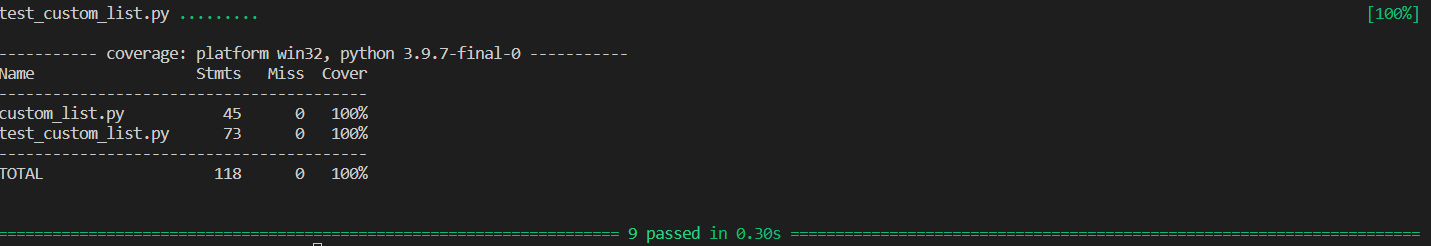
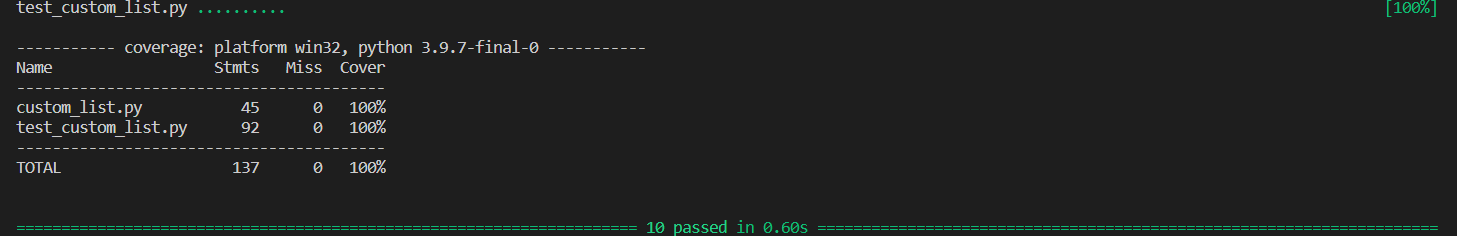
Дз3 попытка 2

diff --git a/03/test_custom_list.py b/03/test_custom_list.py
@@ -1,65 +1,81 @@
-import pytest
 from custom_list import CustomList
+
+
+def assert_custom_list_equal(custom_list1, custom_list2):
+    assert custom_list1 == custom_list2
+    assert list(custom_list1) == list(custom_list2)
 
 
 def test_custom_list_add():
     custom_list1 = CustomList([5, 1, 3, 7])
     custom_list2 = CustomList([1, 2, 7])
     result1 = custom_list1 + custom_list2
-    assert result1 == CustomList([6, 3, 10, 7])
+    assert_custom_list_equal(result1, CustomList([6, 3, 10, 7]))
+    # Проверяем, что исходный список не изменился
+    assert_custom_list_equal(custom_list1, CustomList([5, 1, 3, 7]))
+    assert_custom_list_equal(custom_list2, CustomList([1, 2, 7]))
     result2 = custom_list1 + [2, 5]
-    assert result2 == CustomList([7, 6, 3, 7])
+    assert_custom_list_equal(result2, CustomList([7, 6, 3, 7]))
     result3 = custom_list2 + [1, 2, 3, 4]
-    assert result3 == CustomList([2, 4, 10, 4])
+    assert_custom_list_equal(result3, CustomList([2, 4, 10, 4]))
 
 
 def test_custom_list_add_empty():
     custom_list1 = CustomList([])
     result1 = custom_list1 + [1]
-    assert result1 == CustomList([1])
+    assert_custom_list_equal(result1, CustomList([1]))
     result2 = [1] + custom_list1
-    assert result2 == CustomList([1])
+    assert_custom_list_equal(result2, CustomList([1]))
     result3 = [] + custom_list1
-    assert result3 == CustomList([])
+    assert_custom_list_equal(result3, CustomList([]))
 
 
 def test_custom_list_radd():
     custom_list1 = CustomList([5, 1, 3, 7])
     custom_list2 = CustomList([1, 2, 7])
     result1 = [2, 5] + custom_list1
-    assert result1 == CustomList([7, 6, 3, 7])
+    assert_custom_list_equal(result1, CustomList([7, 6, 3, 7]))
+    # Проверяем, что исходный список не изменился
+    assert_custom_list_equal(custom_list1, CustomList([5, 1, 3, 7]))
+    assert_custom_list_equal(custom_list2, CustomList([1, 2, 7]))
     result2 = custom_list2 + [1, 2, 3, 4]
-    assert result2 == CustomList([2, 4, 10, 4])
+    assert_custom_list_equal(result2, CustomList([2, 4, 10, 4]))
 
 
 def test_custom_list_sub():
     custom_list1 = CustomList([5, 1, 3, 7])
     custom_list2 = CustomList([1, 2, 7])
     result1 = custom_list1 - custom_list2
-    assert result1 == CustomList([4, -1, -4, 7])
+    assert_custom_list_equal(result1, CustomList([4, -1, -4, 7]))
+    # Проверяем, что исходный список не изменился
+    assert_custom_list_equal(custom_list1, CustomList([5, 1, 3, 7]))
+    assert_custom_list_equal(custom_list2, CustomList([1, 2, 7]))
     result2 = custom_list1 - [1, 2, 7]
-    assert result2 == CustomList([4, -1, -4, 7])
+    assert_custom_list_equal(result2, CustomList([4, -1, -4, 7]))
     result3 = custom_list2 - [1, 2, 3, 4]
-    assert result3 == CustomList([0, 0, 4, -4])
+    assert_custom_list_equal(result3, CustomList([0, 0, 4, -4]))
 
 
 def test_custom_list_sub_empty():
     custom_list1 = CustomList([])
     result1 = custom_list1 - [1]
-    assert result1 == CustomList([-1])
+    assert_custom_list_equal(result1, CustomList([-1]))
     result2 = [1] - custom_list1
-    assert result2 == CustomList([1])
+    assert_custom_list_equal(result2, CustomList([1]))
     result3 = [] - custom_list1
-    assert result3 == CustomList([])
+    assert_custom_list_equal(result3, CustomList([]))
 
 
 def test_custom_list_rsub():
     custom_list1 = CustomList([5, 1, 3, 7])
     custom_list2 = CustomList([1, 2, 7])
-    result2 = [1, 2, 7] - custom_list1
-    assert result2 == CustomList([-4, 1, 4, -7])
-    result3 = [1, 2, 3, 4] - custom_list2
-    assert result3 == CustomList([0, 0, -4, 4])
+    result1 = [1, 2, 7] - custom_list1
+    assert_custom_list_equal(result1, CustomList([-4, 1, 4, -7]))
+    # Проверяем, что исходный список не изменился
+    assert_custom_list_equal(custom_list1, CustomList([5, 1, 3, 7]))
+    assert_custom_list_equal(custom_list2, CustomList([1, 2, 7]))
+    result2 = [1, 2, 3, 4] - custom_list2
+    assert_custom_list_equal(result2, CustomList([0, 0, -4, 4]))
 
 
 def test_custom_list_comparison():
@@ -75,6 +91,17 @@ def test_custom_list_comparison():
     assert custom_list1 <= custom_list3
 
 
+def test_lists_with_same_sum():
+    custom_list1 = CustomList([3, 5, 2])
+    custom_list2 = CustomList([1, 4, 5])
+    assert custom_list1 == custom_list2
+    assert (custom_list1 != custom_list2) is False
+    assert (custom_list1 > custom_list2) is False
+    assert (custom_list1 < custom_list2) is False
+    assert custom_list1 >= custom_list2
+    assert custom_list1 <= custom_list2
+
+
 def test_custom_list_and_not_custom_listcomparison():
     custom_list1 = CustomList([5, 1, 3, 7])
     assert (custom_list1 == [5, 1, 3, 7]) is None
@@ -88,6 +115,5 @@ def test_custom_list_and_not_custom_listcomparison():
 def test_str():
     custom_list1 = CustomList([5, 1, 3, 7])
     custom_list2 = CustomList([])
-
     assert str(custom_list1) == "[5, 1, 3, 7] Сумма = 16"
     assert str(custom_list2) == "[] Сумма = 0"
